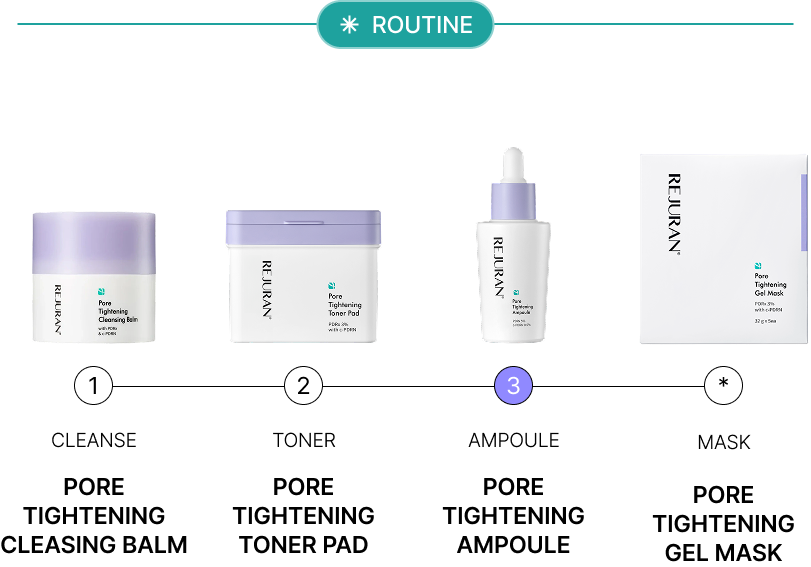
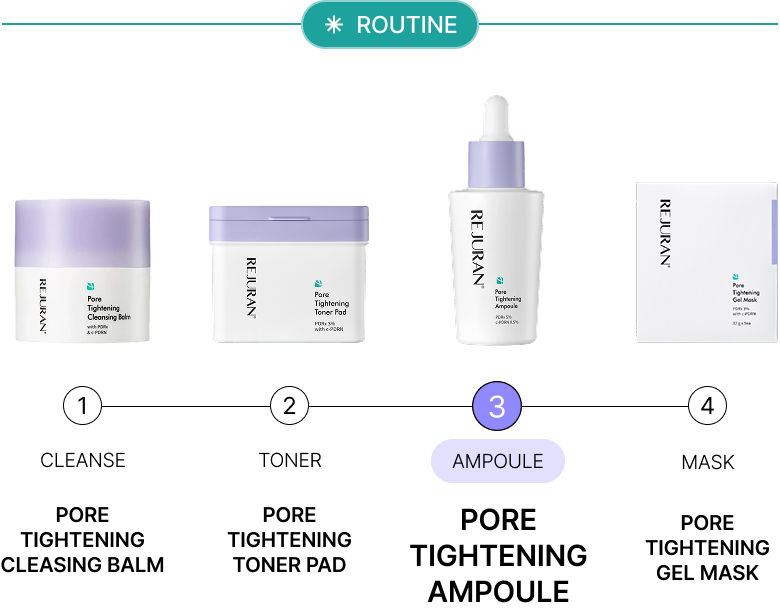
Remove obsolete built asset

diff --git a/src/index.css b/src/index.css
@@ -1565,14 +1565,15 @@ body {
   --rs-name-top: 1150px;
   --rs-name-font-size: 58px;
   --rs-desc-top: 1242px;
-  --rs-lifestyle-top: 1572px;
+  --rs-lifestyle-top: 1602px;
   --rs-lifestyle-width: 1020px;
   --rs-lifestyle-max-height: 700px;
   --rs-scroll-height: 2540px;
 }
 
 .rs-turnover .rs-result-scroll,
-.rs-dual-effect .rs-result-scroll {
+.rs-dual-effect .rs-result-scroll,
+.rs-pore .rs-result-scroll {
   overflow-x: hidden;
   overflow-y: auto;
   overscroll-behavior: contain;
@@ -1581,12 +1582,14 @@ body {
 }
 
 .rs-turnover .rs-result-scroll::-webkit-scrollbar,
-.rs-dual-effect .rs-result-scroll::-webkit-scrollbar {
+.rs-dual-effect .rs-result-scroll::-webkit-scrollbar,
+.rs-pore .rs-result-scroll::-webkit-scrollbar {
   display: none;
 }
 
 .rs-turnover .rs-next-btn,
-.rs-dual-effect .rs-next-btn {
+.rs-dual-effect .rs-next-btn,
+.rs-pore .rs-next-btn {
   top: 2330px;
   left: 50%;
   right: auto;
@@ -1615,15 +1618,17 @@ body {
 }
 
 .rs-pore {
-  --rs-product-top: 390px;
-  --rs-product-width: 520px;
-  --rs-product-height: 520px;
+  --rs-product-top: 450px;
+  --rs-product-width: 640px;
+  --rs-product-height: 640px;
   --rs-product-shift-x: 32px;
-  --rs-name-top: 950px;
-  --rs-desc-top: 1030px;
-  --rs-lifestyle-top: 1150px;
-  --rs-lifestyle-width: 860px;
-  --rs-lifestyle-max-height: 570px;
+  --rs-name-top: 1120px;
+  --rs-name-font-size: 58px;
+  --rs-desc-top: 1278px;
+  --rs-lifestyle-top: 1602px;
+  --rs-lifestyle-width: 1020px;
+  --rs-lifestyle-max-height: 620px;
+  --rs-scroll-height: 2540px;
 }
 
 .rs-moisture {
@@ -1794,8 +1799,17 @@ body {
 }
 
 .rs-turnover .rs-scroll-cue,
-.rs-dual-effect .rs-scroll-cue {
+.rs-dual-effect .rs-scroll-cue,
+.rs-pore .rs-scroll-cue {
   display: block;
+}
+
+.rs-pore .rs-scroll-cue-text {
+  top: -22px;
+}
+
+.rs-pore .rs-scroll-cue-arrow {
+  top: 14px;
 }
 
 .rs-scroll-cue-hidden {
@@ -1827,7 +1841,8 @@ body {
 }
 
 .rs-turnover .rs-lifestyle-img,
-.rs-dual-effect .rs-lifestyle-img {
+.rs-dual-effect .rs-lifestyle-img,
+.rs-pore .rs-lifestyle-img {
   opacity: 1;
   filter: none;
 }

diff --git a/src/AppV2.jsx b/src/AppV2.jsx
@@ -633,15 +633,23 @@ const PRODUCT_DATA = {
       "improve elasticity, texture, and overall radiance.",
     ],
     waveX: "564px",
-    waveY: "800px",
+    waveY: "770px",
     nextLabel: "Next",
     lifestyle: "/dualeffect01.png",
   },
   "Pore Tightening Ampoule": {
     name: "PORE TIGHTENING AMPOULE",
+    nameLines: ["PORE TIGHTENING", "AMPOULE"],
     resultClass: "rs-pore",
     image: "/pore02.png",
-    desc: "Refine the look of pores and achieve a smoother, more balanced complexion with Pore Tightening Ampoule.",
+    descLines: [
+      "Refine the look of pores and achieve",
+      "a smoother, more balanced complexion with",
+      "Pore Tightening Ampoule.",
+    ],
+    waveX: "572px",
+    waveY: "800px",
+    nextLabel: "Next",
     lifestyle: "/pore01.png",
   },
   "Moisture Treatment Ampoule": {
@@ -694,7 +702,16 @@ function ResultScreen({ product, onRestart, onNext }) {
             </div>
 
             {/* Product name */}
-            <p className="rs-product-name">{data.name}</p>
+            <p className="rs-product-name">
+              {data.nameLines
+                ? data.nameLines.map((line, index) => (
+                    <span key={line}>
+                      {line}
+                      {index < data.nameLines.length - 1 && <br />}
+                    </span>
+                  ))
+                : data.name}
+            </p>
 
             {/* Description */}
             <p className="rs-product-desc">